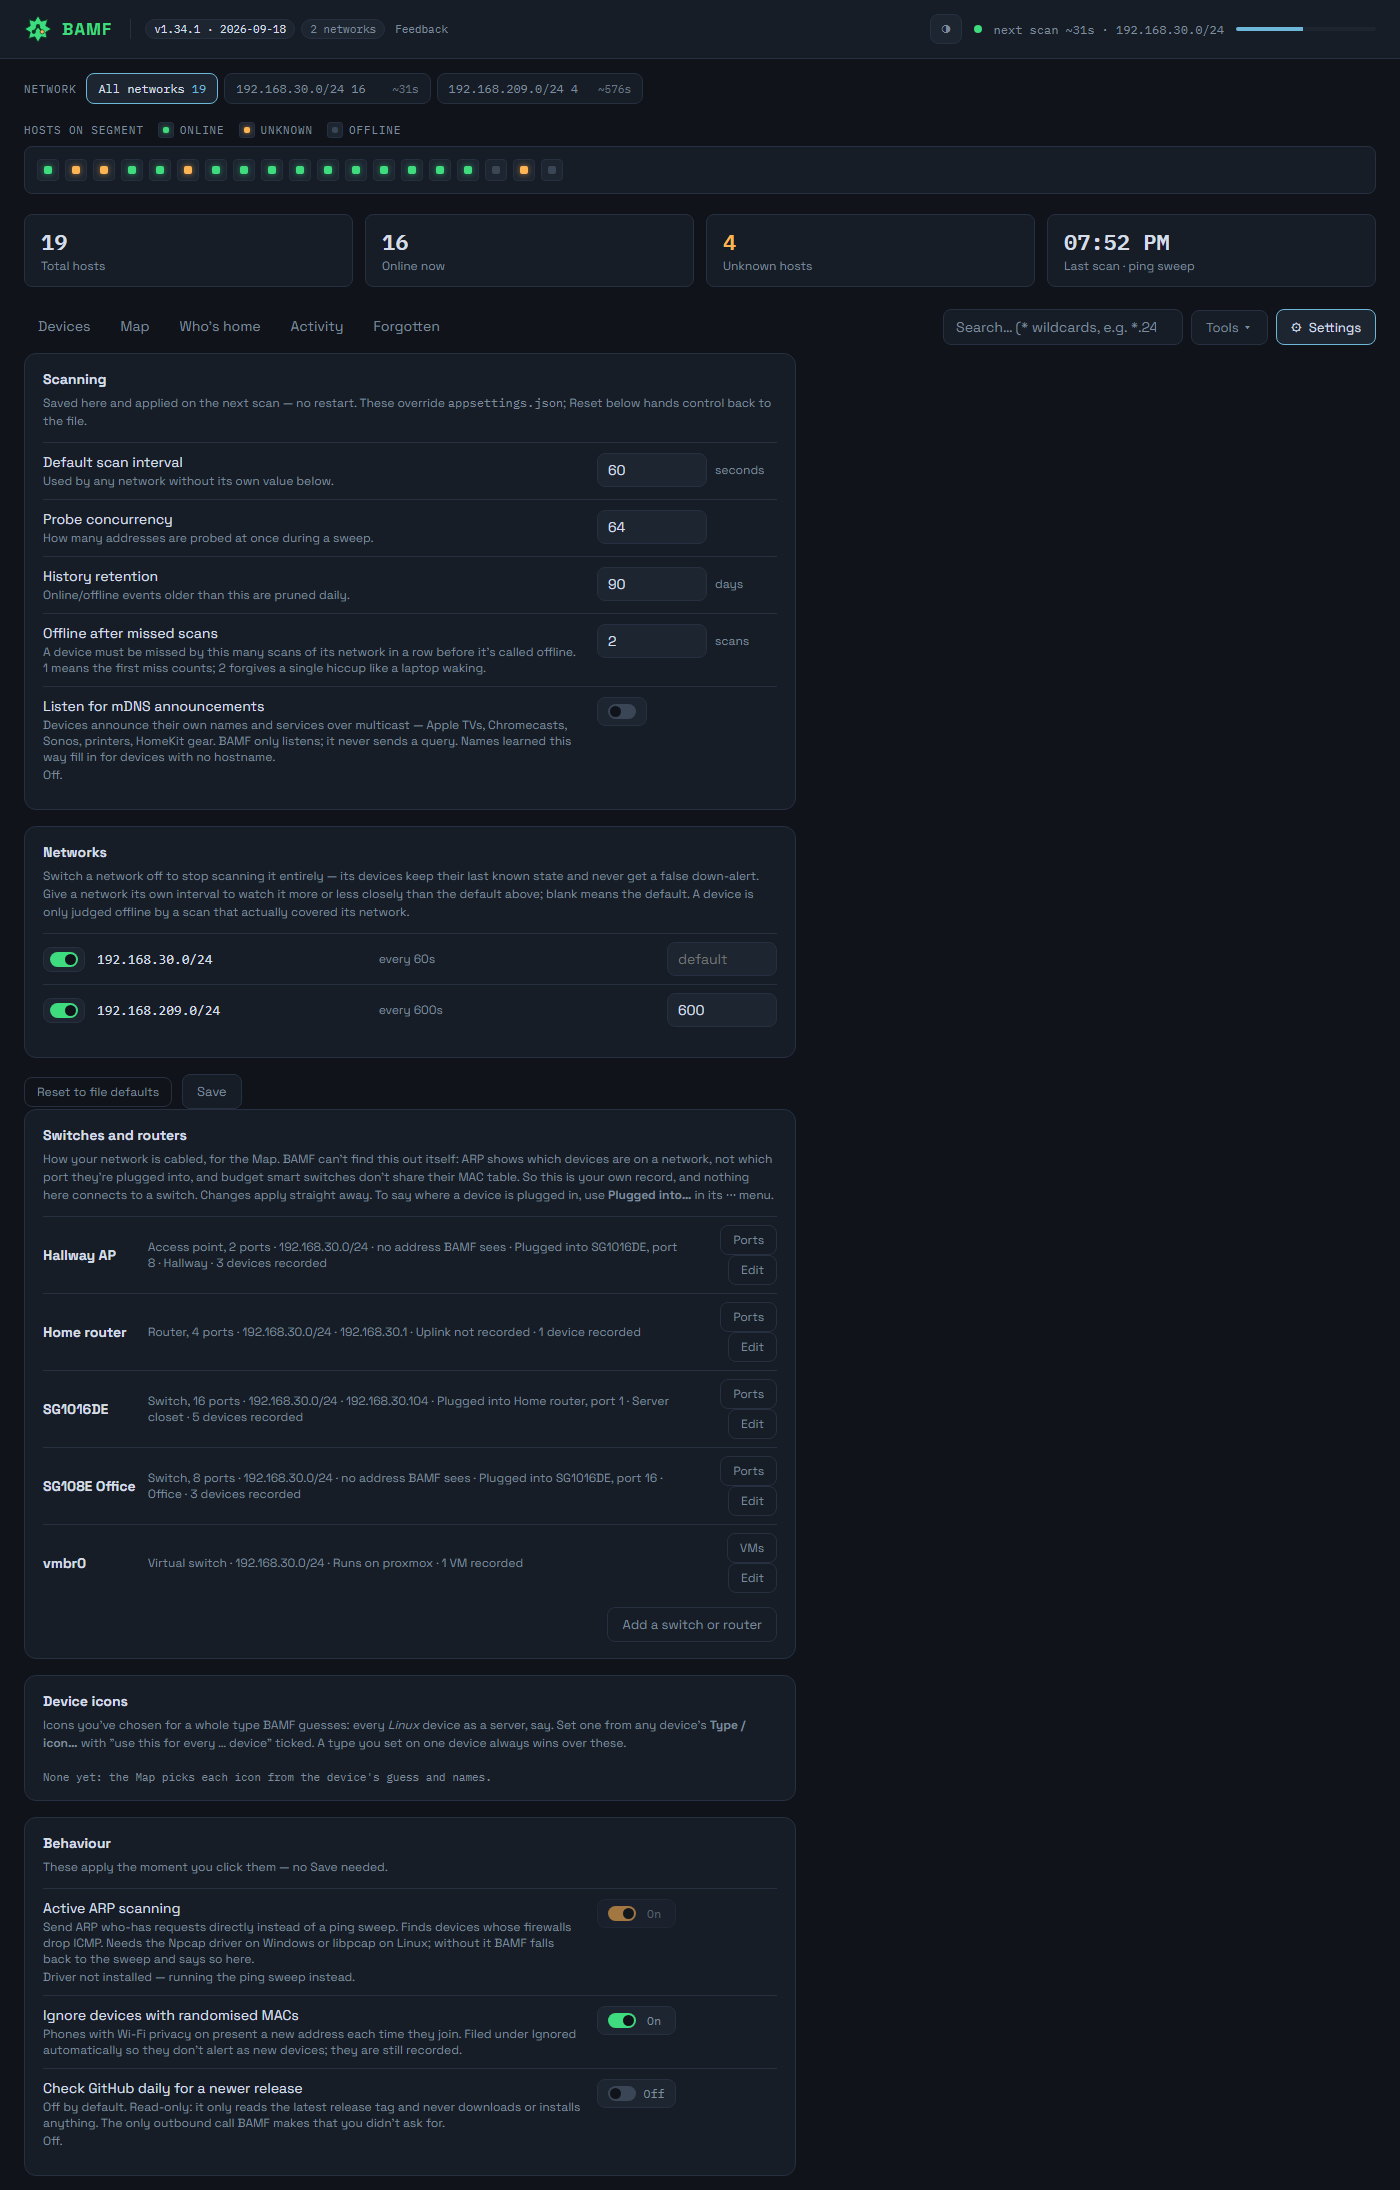
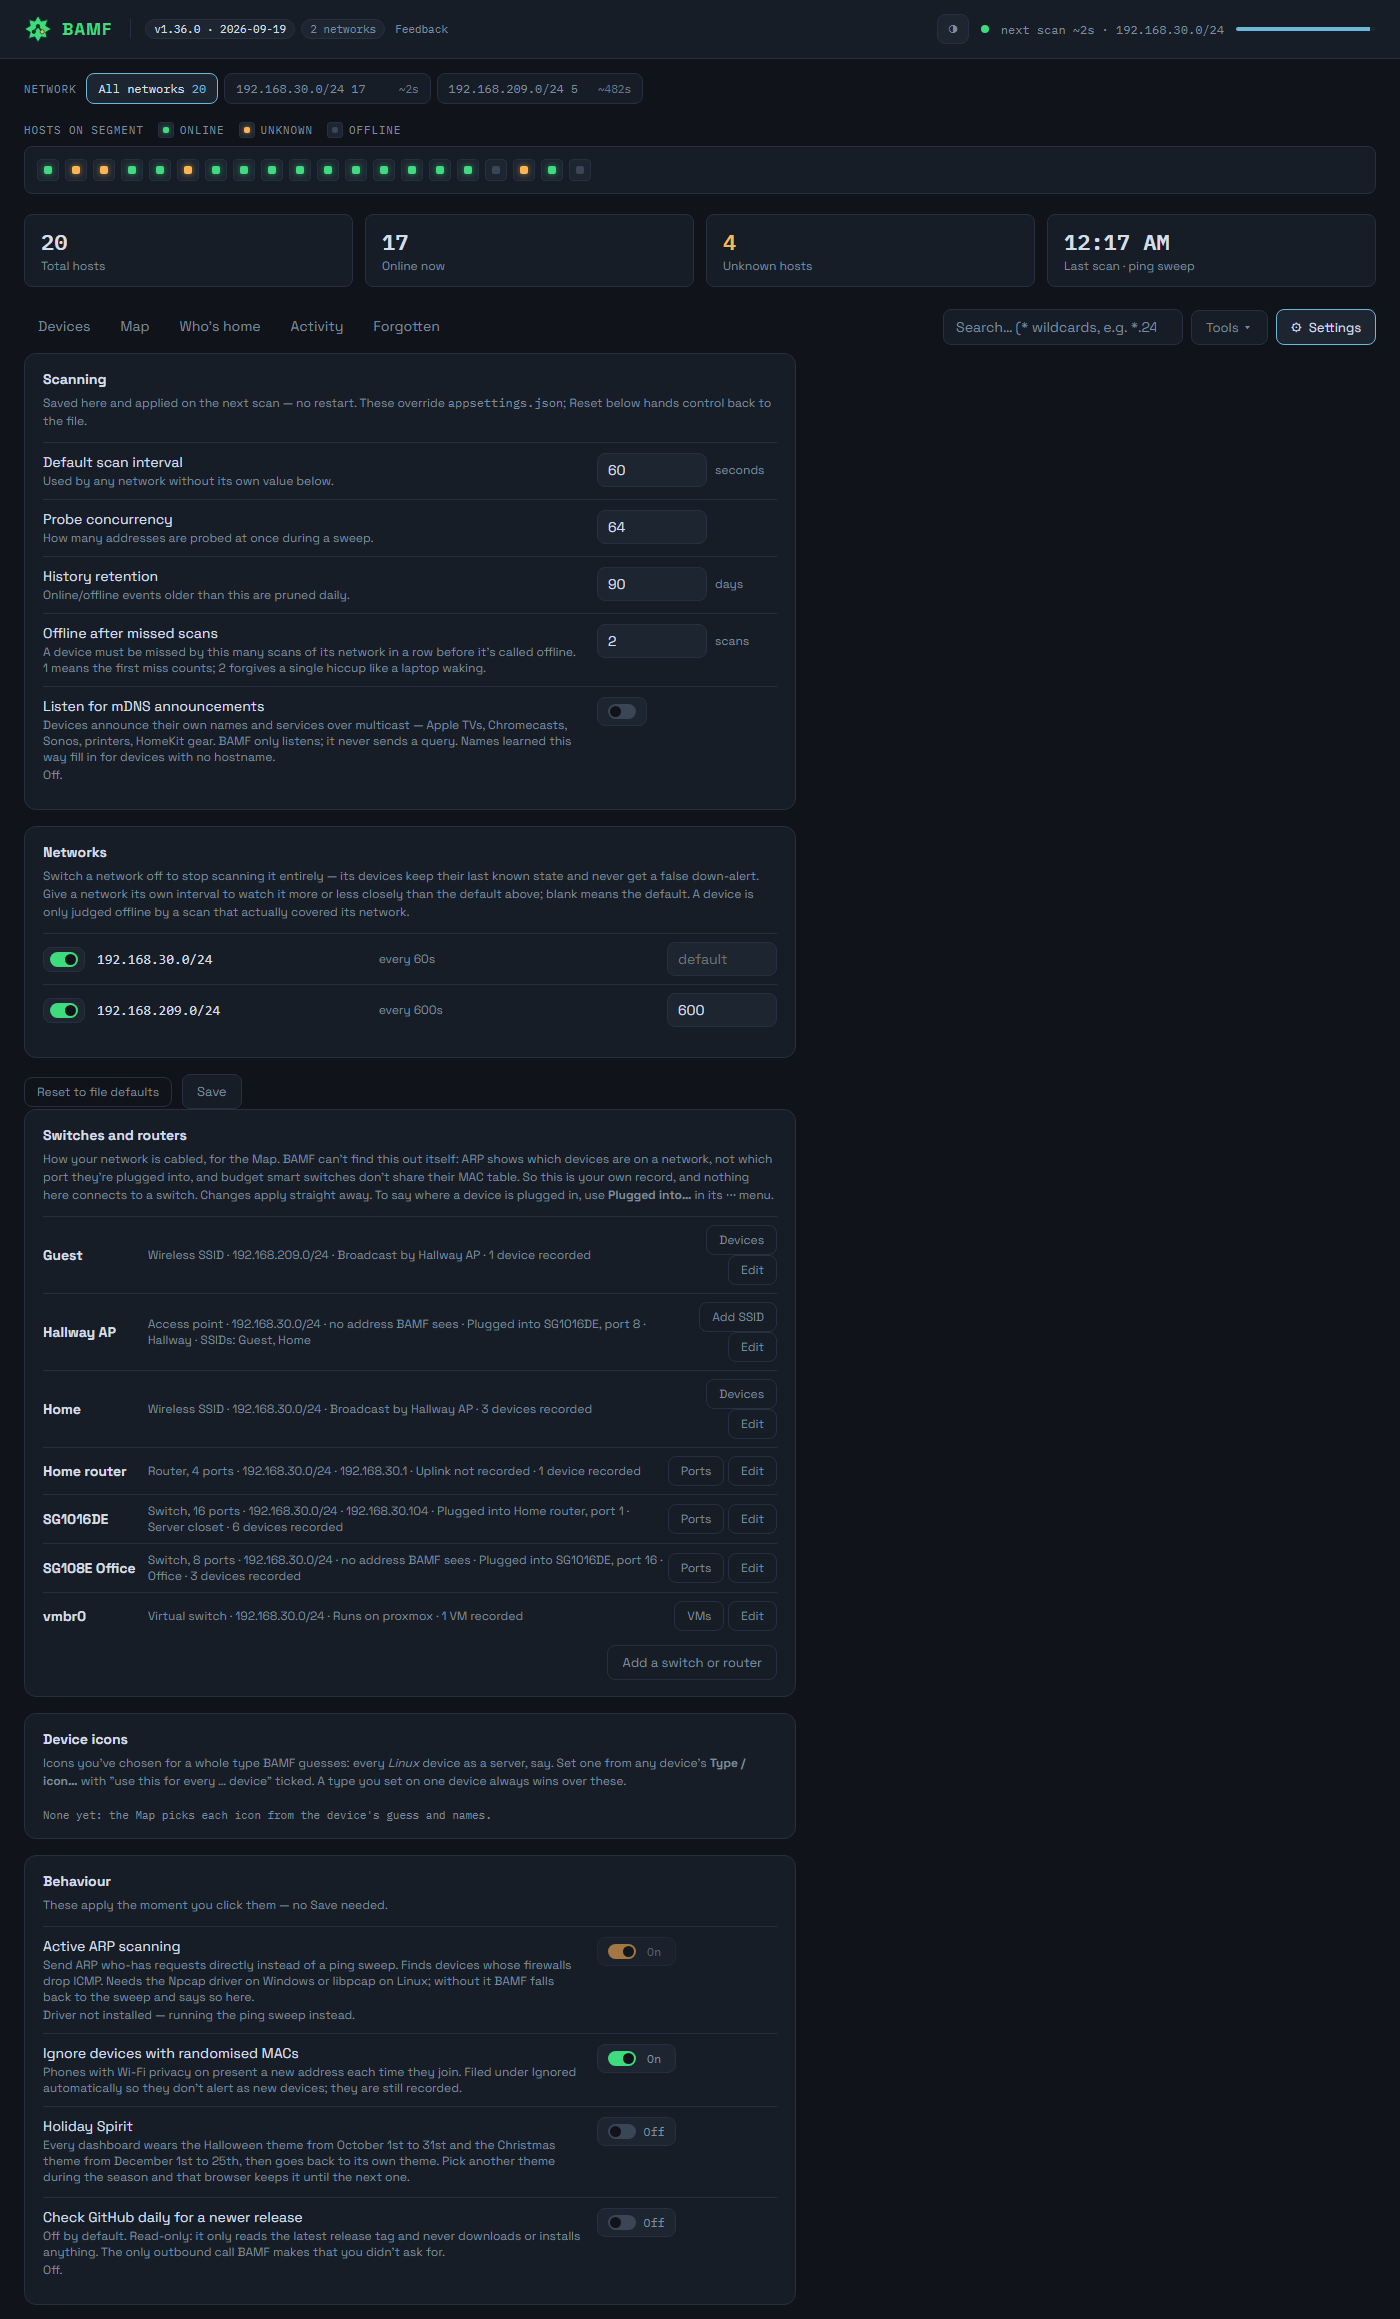
Recapture the README screenshots for 1.36.0 (#134)
All three taken on the demo database with 1.36.0. The Map shows BAMF under
the 16-port switch with its two network cards combined, and the Hallway AP
with Home and Guest SSIDs; Settings shows the SSIDs and the Holiday Spirit
toggle.

diff --git a/README.md b/README.md
@@ -97,7 +97,7 @@ optional daily update check you have to switch on, and your own webhook.
 
 ### See how it's laid out
 
-![The Map's whole-network view: two networks in one diagram, each device tagged with its network's colour. The home router is at the top with a device on its own port and BAMF beside it. A 16-port switch on the router's port 1 has its devices in port order with each port's location, including a Proxmox host whose virtual switch holds a VM from the other network. An access point has its Wi-Fi clients, an office switch is chained further along, and the second network's gateway has its own box of devices](docs/map.png)
+![The Map's whole-network view: two networks in one diagram, each device tagged with its network's colour. The home router is at the top with a device on its own port. A 16-port switch on the router's port 1 has its devices in port order with each port's location, including BAMF itself on port 3 and a Proxmox host whose virtual switch holds a VM from the other network. The Hallway access point broadcasts a Home and a Guest SSID, each with its devices joined by lightning bolts. An office switch is chained further along, and the second network's gateway sits beside the first network's box of devices](docs/map.png)
 
 The **Map** draws each network as a diagram: your router at the top with its own
 ports, your switches and access points under it, each one's devices in port
@@ -106,14 +106,15 @@ of device. **Whole network** puts every network in one diagram, drawn by the
 cabling, with each device tagged in its network's colour. Cabling isn't
 something ARP can see, so BAMF doesn't guess it. Record your switches under
 **Settings → Switches**, or just drag a device onto a switch on the map, and
-the map draws it as a cable. Anything you haven't recorded, like the Wi-Fi
-devices above, waits in an "On this network" box. Drag anything to arrange it
+the map draws it as a cable, or as a lightning bolt for a device on a
+wireless SSID. Anything you haven't recorded, like the two devices in the box
+above, waits in an "On this network" box. Drag anything to arrange it
 the way your house is laid out; it's saved, so it looks the same on every
 screen. It works with any switch, including unmanaged ones.
 
 ### Tune it without touching the server
 
-![The Settings tab: scan interval, probe concurrency, history retention, an on/off switch and scan interval per network, the recorded switches, and the instant toggles for active ARP, randomised MACs and update checks](docs/settings.png)
+![The Settings tab: scan interval, probe concurrency, history retention, an on/off switch and scan interval per network, the recorded switches, access point and SSIDs, and the instant toggles for active ARP, randomised MACs, Holiday Spirit and update checks](docs/settings.png)
 
 Scan cadence, probe concurrency and history retention are editable from the
 dashboard and applied on the next scan — no restart, no editing a file over SSH.
